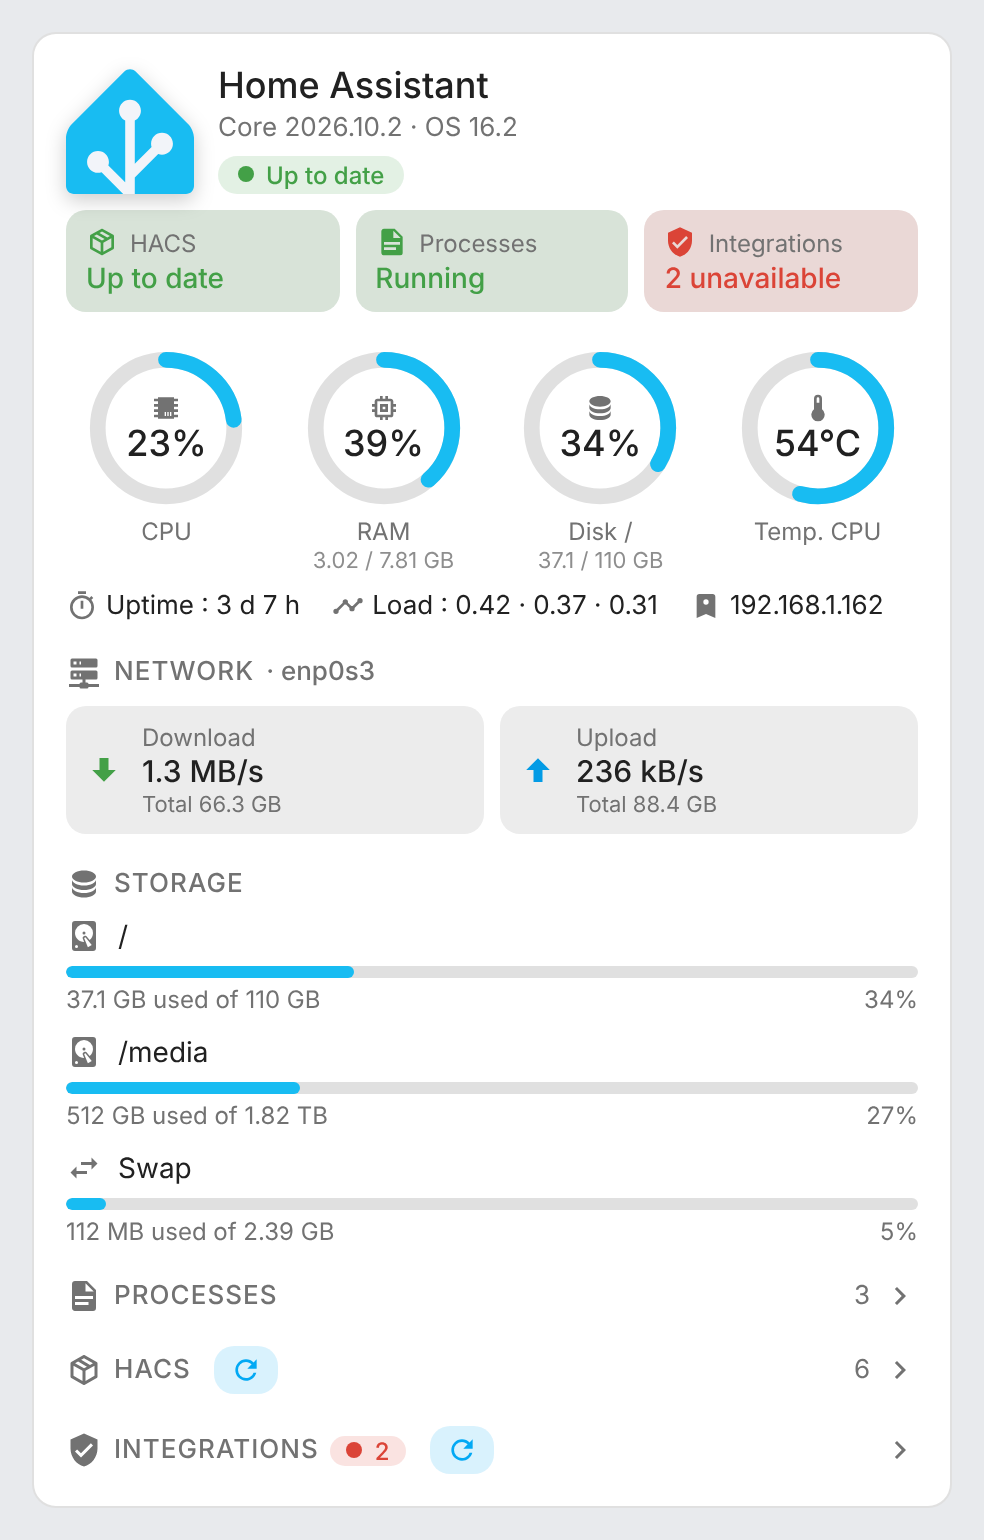
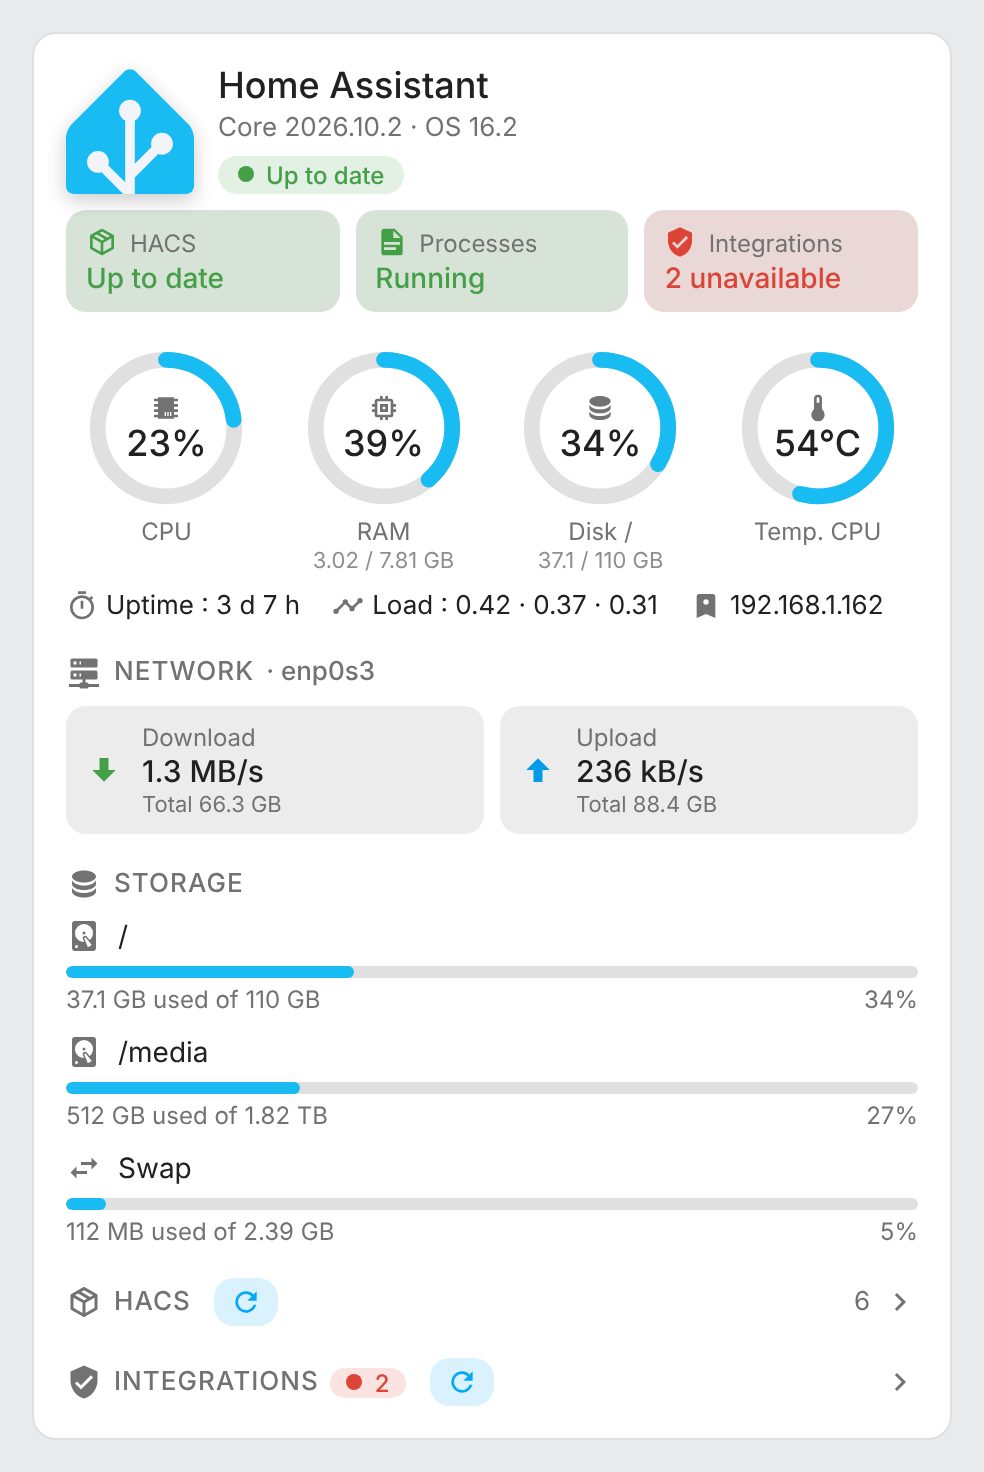
Hide the processes section while every process runs (1.8.3)
Its status tile still shows the list on a click; the section shows up by
itself as soon as a process stops.

Claude-Session: https://claude.ai/code/session_015jcFuttdwZFKwANE26DW5D

diff --git a/src/system-monitor-card.js b/src/system-monitor-card.js
@@ -1213,7 +1213,8 @@ class SystemMonitorCard extends SystemMonitorBase {
         ${n ? `<span class="chip crit"><span class="dot"></span>${n}</span>` : ""}
         <span class="count">${entries.length}</span>${svgIcon(ICONS.chevron, "chevron")}
       </div>`;
-    if (!open) return `<div>${head}</div>`;
+    // Hidden while every process runs, unless unfolded from the status tile; shown as soon as one stops.
+    if (!open) return "";
     const chips = entries.map(([name, id]) => {
       const on = this._s(id)?.state === "on";
       return `<span class="chip clickable ${on ? "good" : "crit"}" data-entity="${id}"><span class="dot"></span>${esc(name)}</span>`;

diff --git a/README.md b/README.md
@@ -26,7 +26,7 @@ The cards are built on top of the core [System Monitor integration](https://www.
 - Home Assistant Core and OS versions, with an orange badge when an update is available
 - Network download / upload rates and totals, per interface (virtual interfaces such as `docker0` or `hassio` are hidden)
 - Storage: every monitored mount point and the swap, with used space
-- Monitored processes, green when running and red when stopped: folded while they all run (and folding again on a click elsewhere), always unfolded while one is stopped, with their overall status in the status row
+- Monitored processes, green when running and red when stopped: hidden while they all run (their status tile shows the list on a click), always shown while one is stopped, with their overall status in the status row
 - **HACS extensions**: a collapsible list of every repository downloaded with HACS, with its logo, version, update status and a GitHub button, plus a **Check for updates** button that runs on the server through [HACS Refresh](https://github.com/juju35/ha-hacs-refresh); its overall status sits in the status row
 - **Unavailable integrations**: with [Integration Watchdog](https://github.com/juju35/ha-integration-watchdog), a collapsible list of the integrations whose entities are all unavailable, with their logo, since when, how many times they were reloaded and whether the watchdog gave up, plus the last reload and a **Check now** button; its overall status sits in the status row
 - Colors turn orange / red when a threshold is crossed (CPU, RAM, disk, temperature)
@@ -155,7 +155,7 @@ Under the header, a row of tiles gives the overall status of each section: **HAC
 
 ### Processes
 
-The processes section is folded by default while every monitored process runs: click its title or its tile in the status row to unfold it, and it folds again on a click elsewhere, like the HACS and integrations lists. As soon as a process is stopped, the section unfolds by itself and stays unfolded, whatever you click, until every process runs again. Its title shows the number of processes, and the number stopped in red.
+The processes section is hidden while every monitored process runs: the **Processes** tile of the status row says "Running", and a click on it shows the list, which hides again on a click on its title or elsewhere. As soon as a process is stopped, the section shows up by itself and stays, whatever you click, until every process runs again. Its title shows the number of processes, and the number stopped in red.
 
 ### HACS extensions
 

diff --git a/CHANGELOG.md b/CHANGELOG.md
@@ -1,5 +1,11 @@
 # Changelog
 
+## 1.8.3
+
+### 💄 Style
+
+- The **Processes** section is hidden while every process runs, like the integrations one. Its tile in the status row still shows "Running", and a click on it shows the list. It shows up by itself as soon as a process stops.
+
 ## 1.8.2
 
 ### 💄 Style
